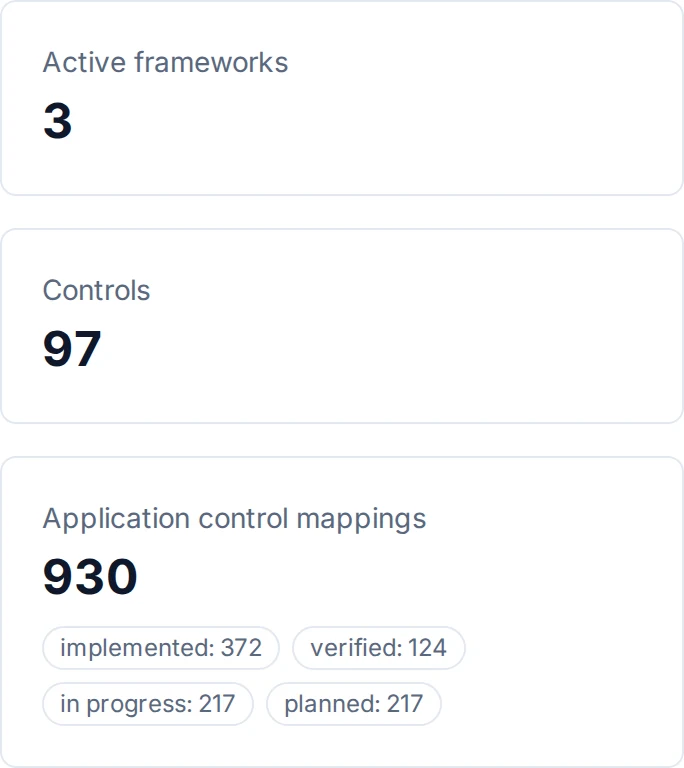
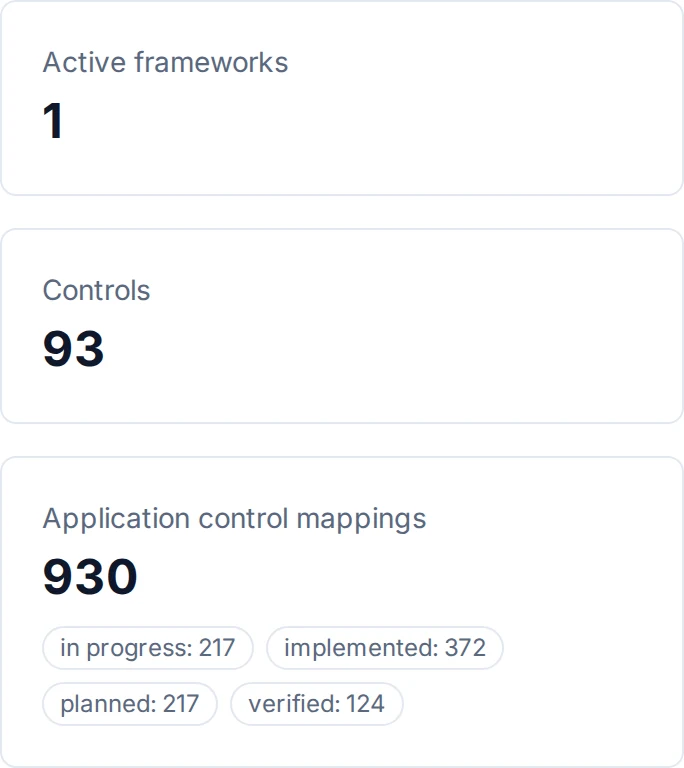
The vendors and compliance pictures are recaptured from a fresh seed: nineteen systems and one framework as a new customer sees, because the capture no longer adds a copy of a system or two frameworks of its own
Evidence: pytest tests/test_seed_demo_company_board_and_cases.py -k "capture_script or vendors_and_compliance" -> 2 passed (2 failed before the recapture)

Changed region(s): [[0.0921, 0.8125, 0.7061, 0.9375], [0.0614, 0.125, 0.1228, 0.1875], [0.0921, 0.4375, 0.1535, 0.5]]

diff --git a/scripts/capture_screenshots.py b/scripts/capture_screenshots.py
@@ -95,10 +95,14 @@ def main() -> int:
     parser.add_argument("--clips-only", action="store_true",
                         help="with --modules: record only the whole-journey module recordings -- see "
                              "scripts/capture/module_clips.py -- and leave the screenshots as they are")
+    parser.add_argument("--with-duplicate-copy", action="store_true",
+                        help="with --modules: also add a copy of one system so the duplicate detection page has an "
+                             "overlap to show. It is a twentieth system a new customer does not have, so leave it "
+                             "off for every other picture")
     args = parser.parse_args()
 
     if args.modules:
-        return run_public_pages_capture(clips_only=args.clips_only,
+        return run_public_pages_capture(with_duplicate_copy=args.with_duplicate_copy, clips_only=args.clips_only,
                                         only=[k for k in args.only.split(",") if k] or None)
     if args.help_clips:
         return run_help_clips_capture(only=[k for k in args.only.split(",") if k] or None)
@@ -248,7 +252,7 @@ def _complete_overlapping_copy(code: str = "LQ-DOCMGMT-DUP") -> None:
     db.session.flush()
 
 
-def _seed_module_screen_data(org_id: int, demo_user_id: int) -> None:
+def _seed_module_screen_data(org_id: int, demo_user_id: int, with_duplicate_copy: bool = False) -> None:
     """Fill in the modules seed_demo_company() doesn't reach.
 
     That command builds Lantern Quay Systems' ArchiMate model, applications,
@@ -332,35 +336,38 @@ def _seed_module_screen_data(org_id: int, demo_user_id: int) -> None:
         db.session.flush()
 
         # ── Duplicate detection: one real duplicate, then run it ───────────
-        from app.models.application_portfolio import ApplicationComponent
+        # Only when asked: the copy is a twentieth system a new customer does not have, so it would change the
+        # figures every other picture shows. Pictures of the other modules are taken without it.
+        if with_duplicate_copy:
+            from app.models.application_portfolio import ApplicationComponent
 
-        if not ApplicationComponent.query.filter_by(application_code="LQ-DOCMGMT-DUP").first():
-            source = apps.get("Document Management")
-            db.session.add(ApplicationComponent(
-                name="Document Management",
-                lifecycle_status="active", health_status="healthy",
-                archimate_element_id=source.archimate_element_id if source else None,
-                application_code="LQ-DOCMGMT-DUP",
-                implementation_date=_dt.date(2023, 1, 10),
-                go_live_date=_dt.date(2023, 4, 1),
-                total_cost_of_ownership=60000, license_cost_annual=9000,
-                infrastructure_cost_monthly=1800,
-                business_criticality="medium", strategic_importance="medium",
-            ))
-            db.session.flush()
+            if not ApplicationComponent.query.filter_by(application_code="LQ-DOCMGMT-DUP").first():
+                source = apps.get("Document Management")
+                db.session.add(ApplicationComponent(
+                    name="Document Management",
+                    lifecycle_status="active", health_status="healthy",
+                    archimate_element_id=source.archimate_element_id if source else None,
+                    application_code="LQ-DOCMGMT-DUP",
+                    implementation_date=_dt.date(2023, 1, 10),
+                    go_live_date=_dt.date(2023, 4, 1),
+                    total_cost_of_ownership=60000, license_cost_annual=9000,
+                    infrastructure_cost_monthly=1800,
+                    business_criticality="medium", strategic_importance="medium",
+                ))
+                db.session.flush()
 
-        _complete_overlapping_copy()
+            _complete_overlapping_copy()
 
-        try:
-            from app.modules.duplicate_detection.services.unified_duplicate_detection_service import (
-                UnifiedDuplicateDetectionService,
-            )
+            try:
+                from app.modules.duplicate_detection.services.unified_duplicate_detection_service import (
+                    UnifiedDuplicateDetectionService,
+                )
 
-            UnifiedDuplicateDetectionService().run_detection(
-                similarity_threshold=0.55, strategy="fast"
-            )
-        except Exception as exc:  # pragma: no cover -- capture-time diagnostic only
-            print(f"  duplicate detection run did not complete: {type(exc).__name__}: {exc}")
+                UnifiedDuplicateDetectionService().run_detection(
+                    similarity_threshold=0.55, strategy="fast"
+                )
+            except Exception as exc:  # pragma: no cover -- capture-time diagnostic only
+                print(f"  duplicate detection run did not complete: {type(exc).__name__}: {exc}")
 
         # ── Investment priorities (application <-> capability mapping) ─────
         from app.models.unified_application_capability_mapping import (
@@ -488,43 +495,8 @@ def _seed_module_screen_data(org_id: int, demo_user_id: int) -> None:
 
     IndustryAPQCService().seed_default_frameworks()
 
-    # Regulatory compliance frameworks (dashboard/compliance): standard,
-    # real framework/control names (GDPR, ISO 27001 -- not fictional data,
-    # the same two the page's own empty-state copy names as examples).
-    # RegulatoryFrameworkService.seed_manufacturing_frameworks() is the
-    # product's own default-seed path for this, but its hardcoded fallback
-    # (used when app/data/compliance_frameworks.json is absent, as it is
-    # here) passes ComplianceControl a control_id kwarg that model doesn't
-    # have -- a pre-existing bug in that fallback, out of this brief's
-    # scope to fix. Insert directly instead, with the model's real fields.
-    from app.models.compliance_models import ComplianceControl, RegulatoryFramework
-
-    framework_rows = [
-        ("GDPR", "General Data Protection Regulation", "privacy", "EU", "mandatory",
-         [("Art.30", "Records of processing activities"),
-          ("Art.32", "Security of processing")]),
-        ("ISO-27001", "ISO 27001 Information Security", "security", "Global", "recommended",
-         [("A.9.2.1", "User access provisioning"),
-          ("A.12.1.2", "Change management")]),
-    ]
-    for code, name, category, jurisdiction, enforcement, controls in framework_rows:
-        framework = RegulatoryFramework.query.filter_by(code=code).first()
-        if framework is None:
-            framework = RegulatoryFramework(
-                code=code, name=name, category=category,
-                jurisdiction=jurisdiction, enforcement_level=enforcement,
-            )
-            db.session.add(framework)
-            db.session.flush()
-        for control_code, title in controls:
-            if ComplianceControl.query.filter_by(
-                framework_id=framework.id, control_code=control_code
-            ).first():
-                continue
-            db.session.add(ComplianceControl(
-                framework_id=framework.id, control_code=control_code, title=title,
-            ))
-    db.session.commit()
+    # Regulatory compliance frameworks: the seed holds them (seed_demo_company), and the capture adds none, so
+    # the compliance picture counts the frameworks and controls a new customer has.
 
     # Batch import jobs (batch-import.dashboard): scoped by user_id only, no
     # organization_id column on this model at all.
@@ -544,7 +516,7 @@ def _seed_module_screen_data(org_id: int, demo_user_id: int) -> None:
     db.session.commit()
 
 
-def _seed_lantern_quay(demo_password: str) -> None:
+def _seed_lantern_quay(demo_password: str, with_duplicate_copy: bool = False) -> None:
     """Seed Lantern Quay Systems and grant three capture-only persona roles.
 
     Calls the existing seed_demo_company() unchanged (app/commands/seed_demo_company.py
@@ -587,7 +559,7 @@ def _seed_lantern_quay(demo_password: str) -> None:
 
         org = Organization.query.filter_by(slug="lantern-quay").first()
         demo_user = User.query.filter_by(email=DEMO_EMAIL).first()
-        _seed_module_screen_data(org.id, demo_user.id)
+        _seed_module_screen_data(org.id, demo_user.id, with_duplicate_copy)
 
 
 def _boot(port: int, log_path: pathlib.Path):
@@ -698,7 +670,7 @@ def _wander(page, points) -> None:
         page.wait_for_timeout(500)
 
 
-def run_public_pages_capture(clips_only: bool = False, only=None) -> int:
+def run_public_pages_capture(clips_only: bool = False, only=None, with_duplicate_copy: bool = False) -> int:
     for tool in ("ffmpeg", "ffprobe"):
         if subprocess.run(["where" if os.name == "nt" else "which", tool],
                           capture_output=True).returncode != 0:
@@ -717,7 +689,7 @@ def run_public_pages_capture(clips_only: bool = False, only=None) -> int:
     os.environ["DEMO_USER_PASSWORD"] = demo_password
 
     print("seeding Lantern Quay Systems ...")
-    _seed_lantern_quay(demo_password)
+    _seed_lantern_quay(demo_password, with_duplicate_copy)
 
     port = _free_port()
     scratch = pathlib.Path(os.environ.get("CAPTURE_SCRATCH_DIR",

diff --git a/tests/test_seed_demo_company_board_and_cases.py b/tests/test_seed_demo_company_board_and_cases.py
@@ -124,3 +124,47 @@ def test_the_figures_in_the_module_pictures_are_the_figures_the_seed_holds(app, 
         assert facts["arb"]["outside_queue"] == len([r for r in pending if r.review_cycle_id is None])
         assert facts["risk-register"]["risks"] == Risk.query.filter_by(organization_id=org_id).count()
         assert facts["portfolio"]["initiatives"] == EnterpriseInitiative.query.filter_by(organization_id=org_id).count()
+
+
+def test_the_capture_script_adds_no_system_and_no_framework_a_new_customer_would_not_have():
+    """The vendors picture counted twenty systems and the compliance picture three frameworks because the capture
+    script added a copy of a system and two frameworks of its own on top of the seed. A picture shows the seed."""
+    source = (pathlib.Path(__file__).resolve().parent.parent / "scripts" / "capture_screenshots.py").read_text(
+        encoding="utf-8")
+
+    import inspect
+
+    from scripts.capture_screenshots import _seed_lantern_quay, _seed_module_screen_data
+
+    assert "RegulatoryFramework(" not in source and "ComplianceControl(" not in source
+    for seeding in (_seed_lantern_quay, _seed_module_screen_data):
+        assert inspect.signature(seeding).parameters["with_duplicate_copy"].default is False
+
+
+def test_the_vendors_and_compliance_figures_in_the_pictures_are_what_a_new_customer_sees(
+        app, db_session, make_org, login_as, client):
+    """Rendered, as the person the pictures are made as, on the seeded organisation: the vendors line and the
+    compliance figures read the same numbers the pictures were captured with."""
+    import json
+    import re
+
+    from app.models.user import User
+    from app.services.public_pages import DEMO_PERSONA, IMG_MODULES_DIR
+
+    _seed_once()
+    org_id = _get_lantern_org_id()
+    manifest = json.loads((IMG_MODULES_DIR / "captures.json").read_text(encoding="utf-8"))
+    login_as(client, User.query.filter_by(email=DEMO_PERSONA, organization_id=org_id).one())
+
+    vendors = " ".join(client.get("/applications/vendors").get_data(as_text=True).split())
+    line = re.search(r"(\d+) vendors? supply (\d+) of your (\d+) systems?", vendors)
+    shown = manifest["vendors"]["desktop"]["facts"]
+    assert line and (int(line.group(1)), int(line.group(2)), int(line.group(3))) == (
+        shown["vendors"], shown["systems_supplied"], shown["systems"])
+
+    compliance = " ".join(client.get("/dashboard/compliance").get_data(as_text=True).split())
+    frameworks = re.search(r"Active frameworks\s*(\d+)", re.sub(r"<[^>]+>", " ", compliance))
+    controls = re.search(r"Controls\s*(\d+)", re.sub(r"<[^>]+>", " ", compliance))
+    shown = manifest["compliance-frameworks"]["desktop"]["facts"]
+    assert frameworks and int(frameworks.group(1)) == shown["frameworks"]
+    assert controls and int(controls.group(1)) == shown["controls"]
